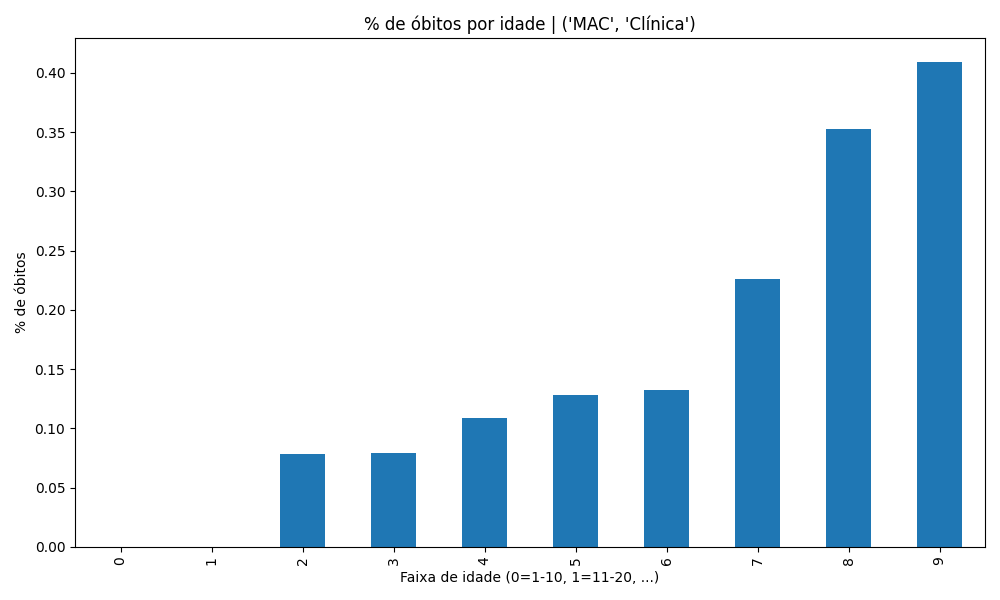
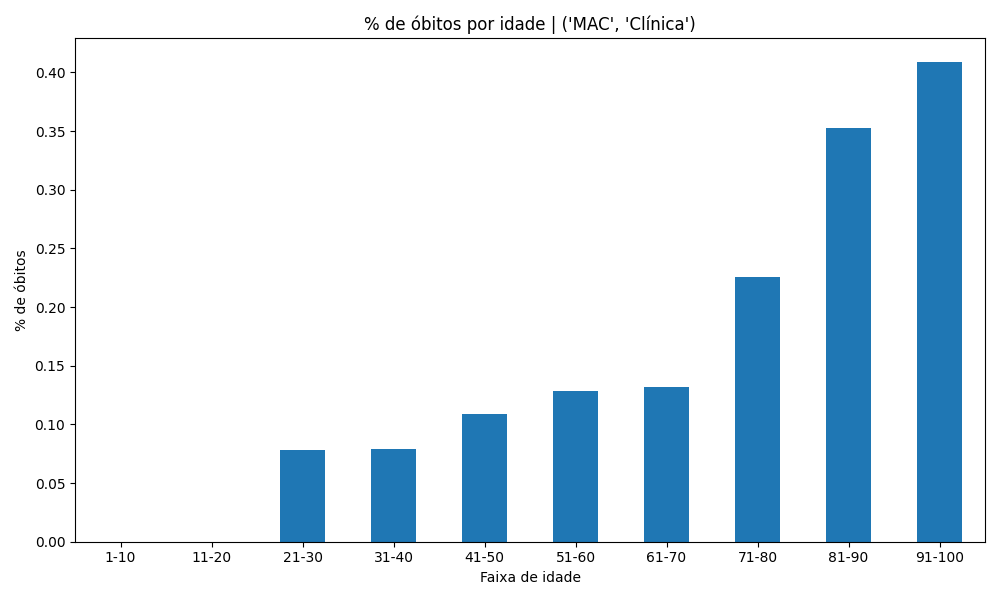
alteração gráficos

diff --git a/src/capstone_datasus/pipelines/pipe_05_analyze_obits/nodes.py b/src/capstone_datasus/pipelines/pipe_05_analyze_obits/nodes.py
@@ -237,14 +237,15 @@ def plot_obit_rate_stratified(
     estratificados por colunas categóricas.
 
     Parâmetros:
-    - strat_cols: lista de colunas para estratificação (ex: ["PA_TPUPS", "PA_TPFIN"])
+    - strat_cols: lista de colunas para estratificação
+      (ex: ["PA_TPUPS", "PA_TPFIN"])
     - min_samples: mínimo de registros por grupo para gerar gráfico
     """
 
     logger = logging.getLogger(__name__)
 
     # Removendo registros do tipo Consolidado pois não são dados individuais
-    df = df[df["PA_DOCORIG"] != 'C']
+    df = df[df["PA_DOCORIG"] != "C"]
 
     if strat_cols is None:
         strat_cols = []
@@ -252,15 +253,15 @@ def plot_obit_rate_stratified(
     # Mantém apenas colunas necessárias
     cols_needed = [col_idade, col_obito] + strat_cols
     df = df[cols_needed].copy()
-    
+
     # Tipos
     df[col_idade] = pd.to_numeric(df[col_idade], errors="coerce")
     df[col_obito] = pd.to_numeric(df[col_obito], errors="coerce")
 
     # Filtro idade
     df = df[(df[col_idade] >= 1) & (df[col_idade] <= 100)]
-    #breakpoint()
-    # Bucket
+
+    # Bucketização
     df["idade_bucket"] = ((df[col_idade] - 1) // 10).astype(int)
 
     # Cria diretório base
@@ -275,7 +276,11 @@ def plot_obit_rate_stratified(
     for group_key, group_df in groups:
         # Nome do grupo
         if isinstance(group_key, tuple):
-            group_name = replace_tuple(group_key, REPLACE_DICT_TPFIN, REPLACE_DICT_TPUPS)
+            group_name = replace_tuple(
+                group_key,
+                REPLACE_DICT_TPFIN,
+                REPLACE_DICT_TPUPS,
+            )
         else:
             group_name = str(group_key)
 
@@ -287,7 +292,11 @@ def plot_obit_rate_stratified(
         total = group_df.groupby("idade_bucket").size()
 
         # Óbitos por bucket
-        obitos = group_df[group_df[col_obito] == 1].groupby("idade_bucket").size()
+        obitos = (
+            group_df[group_df[col_obito] == 1]
+            .groupby("idade_bucket")
+            .size()
+        )
 
         # Percentual
         percentual = (obitos / total).fillna(0) * 100
@@ -295,10 +304,16 @@ def plot_obit_rate_stratified(
 
         # Plot
         plt.figure(figsize=(10, 6))
-        percentual.plot(kind="bar")
+        ax = percentual.plot(kind="bar")
+
+        labels = [
+            "1-10" if i == 0 else f"{i*10+1}-{(i+1)*10}"
+            for i in percentual.index
+        ]
+        ax.set_xticklabels(labels, rotation=0)
 
         plt.title(f"% de óbitos por idade | {group_name}")
-        plt.xlabel("Faixa de idade (0=1-10, 1=11-20, ...)")
+        plt.xlabel("Faixa de idade")
         plt.ylabel("% de óbitos")
 
         plt.tight_layout()
@@ -312,6 +327,3 @@ def plot_obit_rate_stratified(
         logger.info("Salvo: %s | n=%d", file_path, len(group_df))
 
     return None
-
-
-
